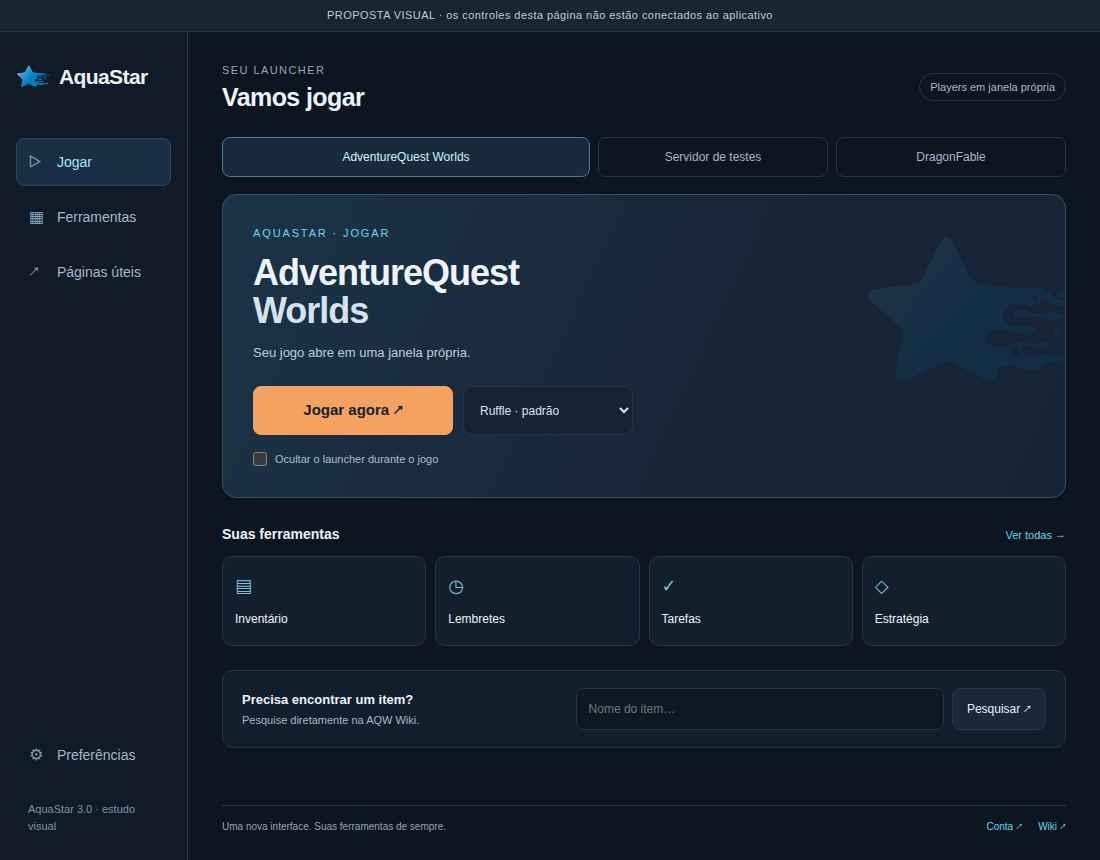
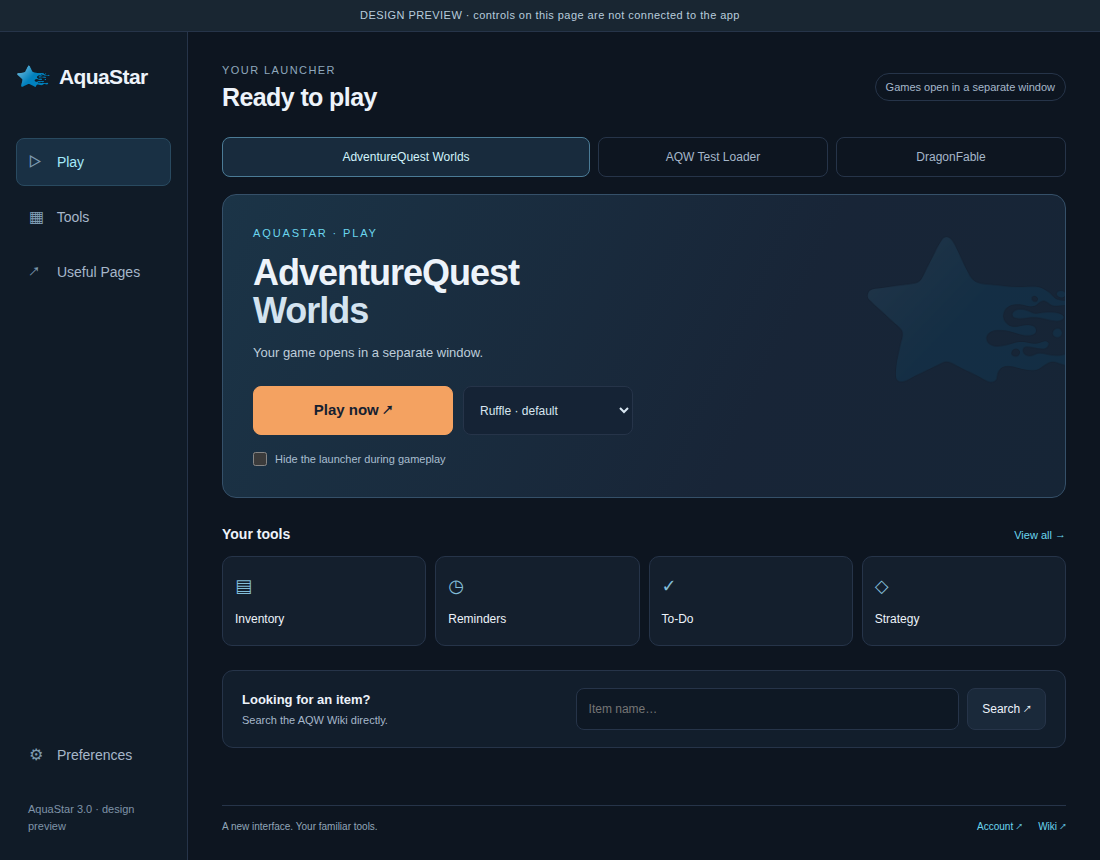
Use English in the launcher proposal and clarify the test loader

diff --git a/docs/design/launcher-3.0-preview.html b/docs/design/launcher-3.0-preview.html
@@ -1,9 +1,9 @@
 <!doctype html>
-<html lang="pt-BR">
+<html lang="en">
 <head>
 <meta charset="utf-8">
 <meta name="viewport" content="width=device-width, initial-scale=1">
-<title>AquaStar · Proposta do launcher</title>
+<title>AquaStar · Launcher concept</title>
 <style>
 :root{color-scheme:dark;--bg:#0d1520;--surface:#141f2d;--edge:#263449;--text:#edf3fa;--muted:#a6b7ca;--cyan:#6bd6ef;--orange:#f4a261}
 *{box-sizing:border-box}body{margin:0;background:var(--bg);color:var(--text);font:14px/1.5 -apple-system,BlinkMacSystemFont,"Segoe UI",sans-serif}button,input,select{font:inherit}button,a,input,select{outline-offset:4px}button:focus,a:focus,input:focus,select:focus{outline:2px solid var(--cyan)}button{cursor:pointer}button:disabled{cursor:default}a{color:var(--cyan)}button{color:inherit}button,input,select{border:1px solid var(--edge);border-radius:8px}button{background:#1a293a;padding:10px 14px}button:hover{background:#24364a}input,select{background:#0e1824;color:var(--text);padding:11px 12px;min-width:0}input{width:100%}.study{padding:7px 20px;background:#192632;color:#b8ccdc;font-size:11px;letter-spacing:.04em;text-align:center;border-bottom:1px solid var(--edge)}.shell{display:grid;grid-template-columns:188px minmax(0,1fr);min-height:calc(100vh - 32px)}.sidebar{background:#101b27;border-right:1px solid var(--edge);padding:28px 16px;display:flex;flex-direction:column}.brand{display:flex;align-items:center;margin-bottom:44px;font-size:21px;font-weight:700;letter-spacing:-.6px}.brand img{width:34px;height:34px;margin-right:9px}.nav-button{width:100%;text-align:left;margin-bottom:7px;background:transparent;border-color:transparent;color:var(--muted);padding:11px 12px}.nav-button[aria-current=page]{background:#193044;color:#a4eafa;border-color:#294a60}.nav-symbol{display:inline-block;width:24px;font-size:16px;color:#7e9bb2}.sidebar-bottom{margin-top:auto;padding-top:50px}.version{color:#7f93a8;font-size:11px;padding:15px 12px 0}.main{width:100%;max-width:1130px;margin:auto;padding:30px 34px 28px}.top{display:flex;align-items:center;justify-content:space-between;margin-bottom:25px}.eyebrow{color:#8fa8bd;font-size:11px;letter-spacing:.13em;text-transform:uppercase;margin:0 0 4px}.top h1{font-size:25px;line-height:1.2;margin:0;letter-spacing:-.6px}.small-label{font-size:11px;color:var(--muted);border:1px solid var(--edge);padding:5px 10px;border-radius:20px}.games{display:grid;grid-template-columns:1.6fr 1fr 1fr;grid-gap:8px;margin-bottom:17px}.game-button{background:transparent;color:var(--muted);font-size:12px;white-space:normal}.game-button[aria-pressed=true]{border-color:#4b7b96;color:#d1f4fc;background:#182b3d}.hero{position:relative;overflow:hidden;background:linear-gradient(115deg,#1b3447,#182537 64%,#162536);border:1px solid #355069;border-radius:14px;padding:30px;min-height:285px}.hero-mark{position:absolute;width:230px;height:230px;right:-25px;top:5px;opacity:.1;pointer-events:none}.hero-content{position:relative;max-width:440px}.game-kicker{margin:0 0 12px;color:var(--cyan);font-size:11px;letter-spacing:.17em;text-transform:uppercase}.hero h2{font-size:36px;line-height:1.06;letter-spacing:-1px;margin:0 0 13px}.hero h2 span{color:#d3e3f0}.hero-copy{color:#becddb;margin:0 0 24px;font-size:13px}.launch-row{display:grid;grid-template-columns:minmax(150px,1fr) minmax(110px,170px);grid-gap:10px;max-width:380px}.primary{background:var(--orange);color:#142030;font-weight:700;border-color:var(--orange);font-size:15px;padding:12px 16px}.primary:hover{background:#ffb77d}.launch-row select{font-size:12px;background:#152335;color:#d8e6f1}.hide-option{display:flex;align-items:center;margin-top:16px;color:#a9bed0;font-size:11px}.hide-option input{width:14px;height:14px;margin:0 8px 0 0}.section-line{display:flex;justify-content:space-between;align-items:center;margin:26px 0 11px}.section-line h2{font-size:14px;margin:0;font-weight:600}.text-button{border:0;background:none;padding:0;font-size:11px;color:var(--cyan)}.tools{display:grid;grid-template-columns:repeat(4,minmax(0,1fr));grid-gap:9px}.tool{background:var(--surface);border:1px solid var(--edge);padding:16px 12px;text-align:left;min-height:89px;border-radius:10px}.tool .tool-icon{font-size:18px;display:block;color:#82bdd8;margin-bottom:8px}.tool strong{font-weight:500;font-size:12px}.search-card{border:1px solid var(--edge);border-radius:11px;background:#121e2c;display:grid;grid-template-columns:1fr 1.5fr;align-items:center;grid-gap:20px;padding:17px 19px;margin-top:24px}.search-card h2{font-size:13px;margin:0 0 3px}.search-card p{font-size:11px;color:var(--muted);margin:0}.search-box{display:grid;grid-template-columns:1fr auto;grid-gap:8px}.search-box input,.search-box button{font-size:12px}.footer{display:flex;justify-content:space-between;border-top:1px solid var(--edge);margin-top:25px;padding-top:13px;font-size:10px;color:#91a6b9}.footer a{text-decoration:none;margin-left:16px}.status{min-height:20px;color:#afc7dc;font-size:12px;margin:12px 0 0}.panel[hidden]{display:none}.panel-title{font-size:27px;margin:0 0 8px}.description{color:var(--muted);margin:0 0 24px}.full-grid{display:grid;grid-template-columns:repeat(2,minmax(0,1fr));grid-gap:12px}.full-grid button{text-align:left;padding:22px}.link-list{display:grid;grid-template-columns:1fr 1fr;grid-gap:10px}.link-list a{display:block;background:var(--surface);border:1px solid var(--edge);border-radius:8px;padding:16px;text-decoration:none}.pref{padding:20px;background:var(--surface);border:1px solid var(--edge);border-radius:10px;margin-bottom:12px}.pref label{display:block;margin-bottom:8px}.pref select{width:100%}.notice{margin-top:24px;font-size:12px;color:var(--muted)}
@@ -12,38 +12,38 @@
 </style>
 </head>
 <body>
-<div class="study">PROPOSTA VISUAL · os controles desta página não estão conectados ao aplicativo</div>
+<div class="study">DESIGN PREVIEW · controls on this page are not connected to the app</div>
 <div class="shell">
   <aside class="sidebar">
     <div class="brand"><img src="../../lite/ui/logo.png" alt="">AquaStar</div>
-    <nav aria-label="Navegação principal">
-      <button class="nav-button" data-panel="play" aria-current="page"><span class="nav-symbol" aria-hidden="true">▷</span> Jogar</button>
-      <button class="nav-button" data-panel="tools"><span class="nav-symbol" aria-hidden="true">▦</span> Ferramentas</button>
-      <button class="nav-button" data-panel="links"><span class="nav-symbol" aria-hidden="true">↗</span> Páginas úteis</button>
+    <nav aria-label="Main navigation">
+      <button class="nav-button" data-panel="play" aria-current="page"><span class="nav-symbol" aria-hidden="true">▷</span> Play</button>
+      <button class="nav-button" data-panel="tools"><span class="nav-symbol" aria-hidden="true">▦</span> Tools</button>
+      <button class="nav-button" data-panel="links"><span class="nav-symbol" aria-hidden="true">↗</span> Useful Pages</button>
     </nav>
-    <div class="sidebar-bottom"><button class="nav-button" data-panel="preferences"><span class="nav-symbol" aria-hidden="true">⚙</span> Preferências</button><div class="version">AquaStar 3.0 · estudo visual</div></div>
+    <div class="sidebar-bottom"><button class="nav-button" data-panel="preferences"><span class="nav-symbol" aria-hidden="true">⚙</span> Preferences</button><div class="version">AquaStar 3.0 · design preview</div></div>
   </aside>
   <main class="main">
-    <div class="top"><div><p class="eyebrow">Seu launcher</p><h1 id="page-title">Vamos jogar</h1></div><span class="small-label">Players em janela própria</span></div>
-    <section class="panel" id="play" aria-label="Jogar">
-      <div class="games" aria-label="Selecionar jogo"><button class="game-button" data-game="AdventureQuest Worlds" aria-pressed="true">AdventureQuest Worlds</button><button class="game-button" data-game="Servidor de testes" aria-pressed="false">Servidor de testes</button><button class="game-button" data-game="DragonFable" aria-pressed="false">DragonFable</button></div>
-      <div class="hero"><img class="hero-mark" src="../../lite/ui/logo.png" alt=""><div class="hero-content"><p class="game-kicker">AquaStar · Jogar</p><h2 id="game-title">AdventureQuest<br><span>Worlds</span></h2><p class="hero-copy">Seu jogo abre em uma janela própria.</p><div class="launch-row"><button class="primary" data-demo>Jogar agora <span aria-hidden="true">↗</span></button><select aria-label="Player"><option>Ruffle · padrão</option><option>Flash Player</option></select></div><label class="hide-option"><input type="checkbox"> Ocultar o launcher durante o jogo</label></div></div>
-      <div class="section-line"><h2>Suas ferramentas</h2><button class="text-button" data-panel="tools">Ver todas →</button></div>
-      <div class="tools"><button class="tool" data-demo><span class="tool-icon" aria-hidden="true">▤</span><strong>Inventário</strong></button><button class="tool" data-demo><span class="tool-icon" aria-hidden="true">◷</span><strong>Lembretes</strong></button><button class="tool" data-demo><span class="tool-icon" aria-hidden="true">✓</span><strong>Tarefas</strong></button><button class="tool" data-demo><span class="tool-icon" aria-hidden="true">◇</span><strong>Estratégia</strong></button></div>
-      <div class="search-card"><div><h2>Precisa encontrar um item?</h2><p>Pesquise diretamente na AQW Wiki.</p></div><form class="search-box"><input aria-label="Pesquisar na wiki" placeholder="Nome do item…"><button type="submit">Pesquisar ↗</button></form></div>
+    <div class="top"><div><p class="eyebrow">Your launcher</p><h1 id="page-title">Ready to play</h1></div><span class="small-label">Games open in a separate window</span></div>
+    <section class="panel" id="play" aria-label="Play">
+      <div class="games" aria-label="Select game"><button class="game-button" data-game="AdventureQuest Worlds" aria-pressed="true">AdventureQuest Worlds</button><button class="game-button" data-game="AQW Test Loader" aria-pressed="false">AQW Test Loader</button><button class="game-button" data-game="DragonFable" aria-pressed="false">DragonFable</button></div>
+      <div class="hero"><img class="hero-mark" src="../../lite/ui/logo.png" alt=""><div class="hero-content"><p class="game-kicker">AquaStar · Play</p><h2 id="game-title">AdventureQuest<br><span>Worlds</span></h2><p class="hero-copy">Your game opens in a separate window.</p><div class="launch-row"><button class="primary" data-demo>Play now <span aria-hidden="true">↗</span></button><select aria-label="Player"><option>Ruffle · default</option><option>Flash Player</option></select></div><label class="hide-option"><input type="checkbox"> Hide the launcher during gameplay</label></div></div>
+      <div class="section-line"><h2>Your tools</h2><button class="text-button" data-panel="tools">View all →</button></div>
+      <div class="tools"><button class="tool" data-demo><span class="tool-icon" aria-hidden="true">▤</span><strong>Inventory</strong></button><button class="tool" data-demo><span class="tool-icon" aria-hidden="true">◷</span><strong>Reminders</strong></button><button class="tool" data-demo><span class="tool-icon" aria-hidden="true">✓</span><strong>To-Do</strong></button><button class="tool" data-demo><span class="tool-icon" aria-hidden="true">◇</span><strong>Strategy</strong></button></div>
+      <div class="search-card"><div><h2>Looking for an item?</h2><p>Search the AQW Wiki directly.</p></div><form class="search-box"><input aria-label="Search the wiki" placeholder="Item name…"><button type="submit">Search ↗</button></form></div>
     </section>
-    <section class="panel" id="tools" hidden><h2 class="panel-title">Ferramentas</h2><p class="description">Seus recursos do AquaStar, em um só lugar.</p><div class="full-grid"><button data-demo>Inventário e Buy Back</button><button data-demo>Lembretes</button><button data-demo>Lista de tarefas</button><button data-demo>Estratégia</button></div></section>
-    <section class="panel" id="links" hidden><h2 class="panel-title">Páginas úteis</h2><p class="description">Acesso rápido à comunidade e à sua conta.</p><div class="link-list"><a href="https://aqwwiki.wikidot.com/" target="_blank" rel="noopener noreferrer">AQW Wiki ↗</a><a href="https://account.aq.com/" target="_blank" rel="noopener noreferrer">Gerenciar conta ↗</a><a href="https://www.aq.com/gamedesignnotes/" target="_blank" rel="noopener noreferrer">Design Notes ↗</a><a href="https://account.aq.com/CharPage" target="_blank" rel="noopener noreferrer">Página do personagem ↗</a></div><p class="notice">Na implementação, esta área terá todos os grupos e links do manifesto atual.</p></section>
-    <section class="panel" id="preferences" hidden><h2 class="panel-title">Preferências</h2><p class="description">As opções disponíveis continuam dependendo do seu sistema.</p><div class="pref"><label for="quality">Qualidade do Ruffle</label><select id="quality"><option>Baixa</option><option selected>Média</option><option>Alta</option></select></div><div class="pref"><label for="graphics">Gráficos</label><select id="graphics"><option>Exemplo no Linux: OpenGL</option><option>Automático</option><option>Vulkan</option></select></div><button data-demo>Abrir configurações completas</button><p class="notice">Esta prévia não salva preferências. A versão final usa as opções e os arquivos do aplicativo.</p></section>
+    <section class="panel" id="tools" hidden><h2 class="panel-title">Tools</h2><p class="description">Your AquaStar tools, all in one place.</p><div class="full-grid"><button data-demo>Inventory & Buy Back</button><button data-demo>Reminders</button><button data-demo>To-Do List</button><button data-demo>Strategy</button></div></section>
+    <section class="panel" id="links" hidden><h2 class="panel-title">Useful Pages</h2><p class="description">Quick access to the community and your account.</p><div class="link-list"><a href="https://aqwwiki.wikidot.com/" target="_blank" rel="noopener noreferrer">AQW Wiki ↗</a><a href="https://account.aq.com/" target="_blank" rel="noopener noreferrer">Manage account ↗</a><a href="https://www.aq.com/gamedesignnotes/" target="_blank" rel="noopener noreferrer">Design Notes ↗</a><a href="https://account.aq.com/CharPage" target="_blank" rel="noopener noreferrer">Character page ↗</a></div><p class="notice">The implemented page will include every existing link group.</p></section>
+    <section class="panel" id="preferences" hidden><h2 class="panel-title">Preferences</h2><p class="description">Available options depend on your system.</p><div class="pref"><label for="quality">Ruffle quality</label><select id="quality"><option>Low</option><option selected>Medium</option><option>High</option></select></div><div class="pref"><label for="graphics">Graphics</label><select id="graphics"><option>Linux example: OpenGL</option><option>Automatic</option><option>Vulkan</option></select></div><button data-demo>Open all settings</button><p class="notice">This preview does not save preferences. The app will use its existing settings.</p></section>
     <p class="status" id="status" aria-live="polite"></p>
-    <footer class="footer"><span>Uma nova interface. Suas ferramentas de sempre.</span><nav aria-label="Links rápidos"><a href="https://account.aq.com/" target="_blank" rel="noopener noreferrer">Conta ↗</a><a href="https://aqwwiki.wikidot.com/" target="_blank" rel="noopener noreferrer">Wiki ↗</a></nav></footer>
+    <footer class="footer"><span>A new interface. Your familiar tools.</span><nav aria-label="Quick links"><a href="https://account.aq.com/" target="_blank" rel="noopener noreferrer">Account ↗</a><a href="https://aqwwiki.wikidot.com/" target="_blank" rel="noopener noreferrer">Wiki ↗</a></nav></footer>
   </main>
 </div>
 <script>
-var titles = {play:'Vamos jogar',tools:'Ferramentas',links:'Páginas úteis',preferences:'Preferências'};
+var titles = {play:'Ready to play',tools:'Tools',links:'Useful Pages',preferences:'Preferences'};
 document.querySelectorAll('[data-panel]').forEach(function(button){button.addEventListener('click',function(){var name=button.getAttribute('data-panel');document.querySelectorAll('.panel').forEach(function(panel){panel.hidden=panel.id!==name});document.querySelectorAll('.nav-button').forEach(function(item){if(item.getAttribute('data-panel')===name)item.setAttribute('aria-current','page');else item.removeAttribute('aria-current')});document.getElementById('page-title').textContent=titles[name];document.getElementById('status').textContent='';})});
 document.querySelectorAll('[data-game]').forEach(function(button){button.addEventListener('click',function(){document.querySelectorAll('[data-game]').forEach(function(item){item.setAttribute('aria-pressed',String(item===button))});document.getElementById('game-title').textContent=button.getAttribute('data-game');})});
-function previewOnly(event){event.preventDefault();document.getElementById('status').textContent='Prévia visual. Esta ação estará conectada ao aplicativo na implementação.'}
+function previewOnly(event){event.preventDefault();document.getElementById('status').textContent='Design preview. This action will be connected when the interface is implemented.'}
 document.querySelectorAll('[data-demo]').forEach(function(button){button.addEventListener('click',previewOnly)});document.querySelector('form').addEventListener('submit',previewOnly);
 </script>
 </body>

diff --git a/docs/design/launcher-3.0-ui.md b/docs/design/launcher-3.0-ui.md
@@ -2,6 +2,8 @@
 
 Status: proposta para revisão. A interface do aplicativo ainda não foi alterada.
 
+A interface padrão e a prévia usam inglês (en-US), conforme solicitado pelo usuário. O idioma desta documentação não define o idioma do produto. Português fica disponível pela localização existente.
+
 ## Objetivo
 
 Dar destaque ao jogo e reduzir a quantidade de controles disputando atenção. O launcher continua disponível para ferramentas e páginas enquanto o jogo roda em outra janela. A decoração e os controles da janela continuam nativos do sistema.
@@ -16,7 +18,7 @@ A prévia está em [launcher-3.0-preview.html](launcher-3.0-preview.html). Ela p
 
 | Área | Conteúdo | Comportamento existente preservado |
 | --- | --- | --- |
-| Jogar | AQW, servidor de testes e DragonFable; um botão principal; seleção de player | `play`, disponibilidade por sistema, player preferido e acompanhamento do processo |
+| Jogar | AQW, AQW Test Loader e DragonFable; um botão principal; seleção de player | `play`, disponibilidade por sistema, player preferido e acompanhamento do processo |
 | Ferramentas | Inventário, lembretes, tarefas e estratégia | `open_tool` e os mesmos arquivos de perfil |
 | Páginas úteis | Links agrupados, pesquisa na wiki e consulta de personagem | Manifesto do jogo, allowlist e janelas de site existentes |
 | Preferências | Qualidade, backend gráfico, ocultar launcher e acesso às configurações completas | Comandos de settings e defaults por plataforma |
@@ -40,7 +42,7 @@ O status deve usar `aria-live="polite"`. Erros permanecem visíveis e não depen
 - Reutilizar HTML sem framework e o logo atual. Não adicionar downloads de fontes ou assets na abertura.
 - Usar Grid, Flexbox e media queries com layouts simples. Não depender de `:has`, container queries, subgrid, backdrop-filter ou APIs recentes para funções essenciais.
 - Preservar barra de título, menus nativos, atalhos e tamanho inicial atual da janela. Não implementar controles próprios de fechar/minimizar.
-- Links vêm do manifesto; textos novos entram nos catálogos en-US e pt-BR. O layout suporta traduções maiores sem cortar rótulos.
+- Links vêm do manifesto; textos novos têm inglês como padrão e entram nos catálogos en-US e pt-BR. O layout suporta traduções maiores sem cortar rótulos.
 - Todos os controles funcionam por teclado. Foco visível, labels associados e contraste de pelo menos 4.5:1 no texto comum são critérios de aceitação.
 - Testar zoom de 100%, 125%, 150% e 200%, janela 900×860 e janela maximizada. Permitir rolagem vertical em vez de esconder ações.
 - Manter DMA-BUF/fontconfig no Linux, capabilities e CSP. Nenhum requisito novo de sistema ou backend gráfico.
